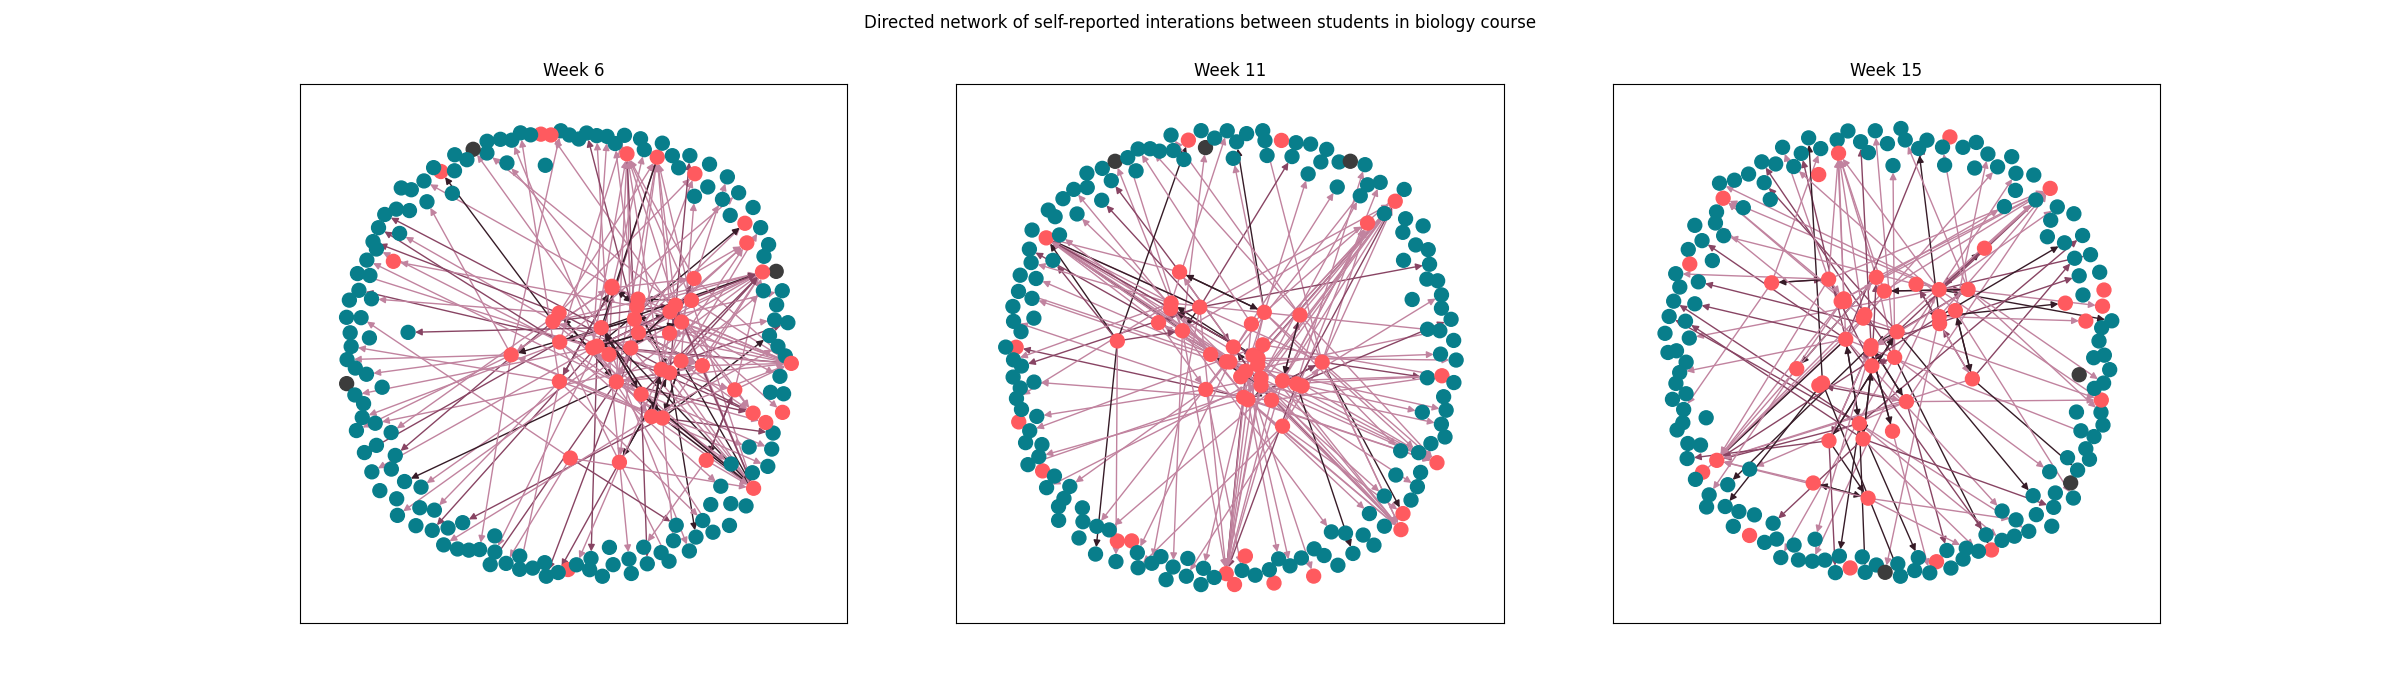
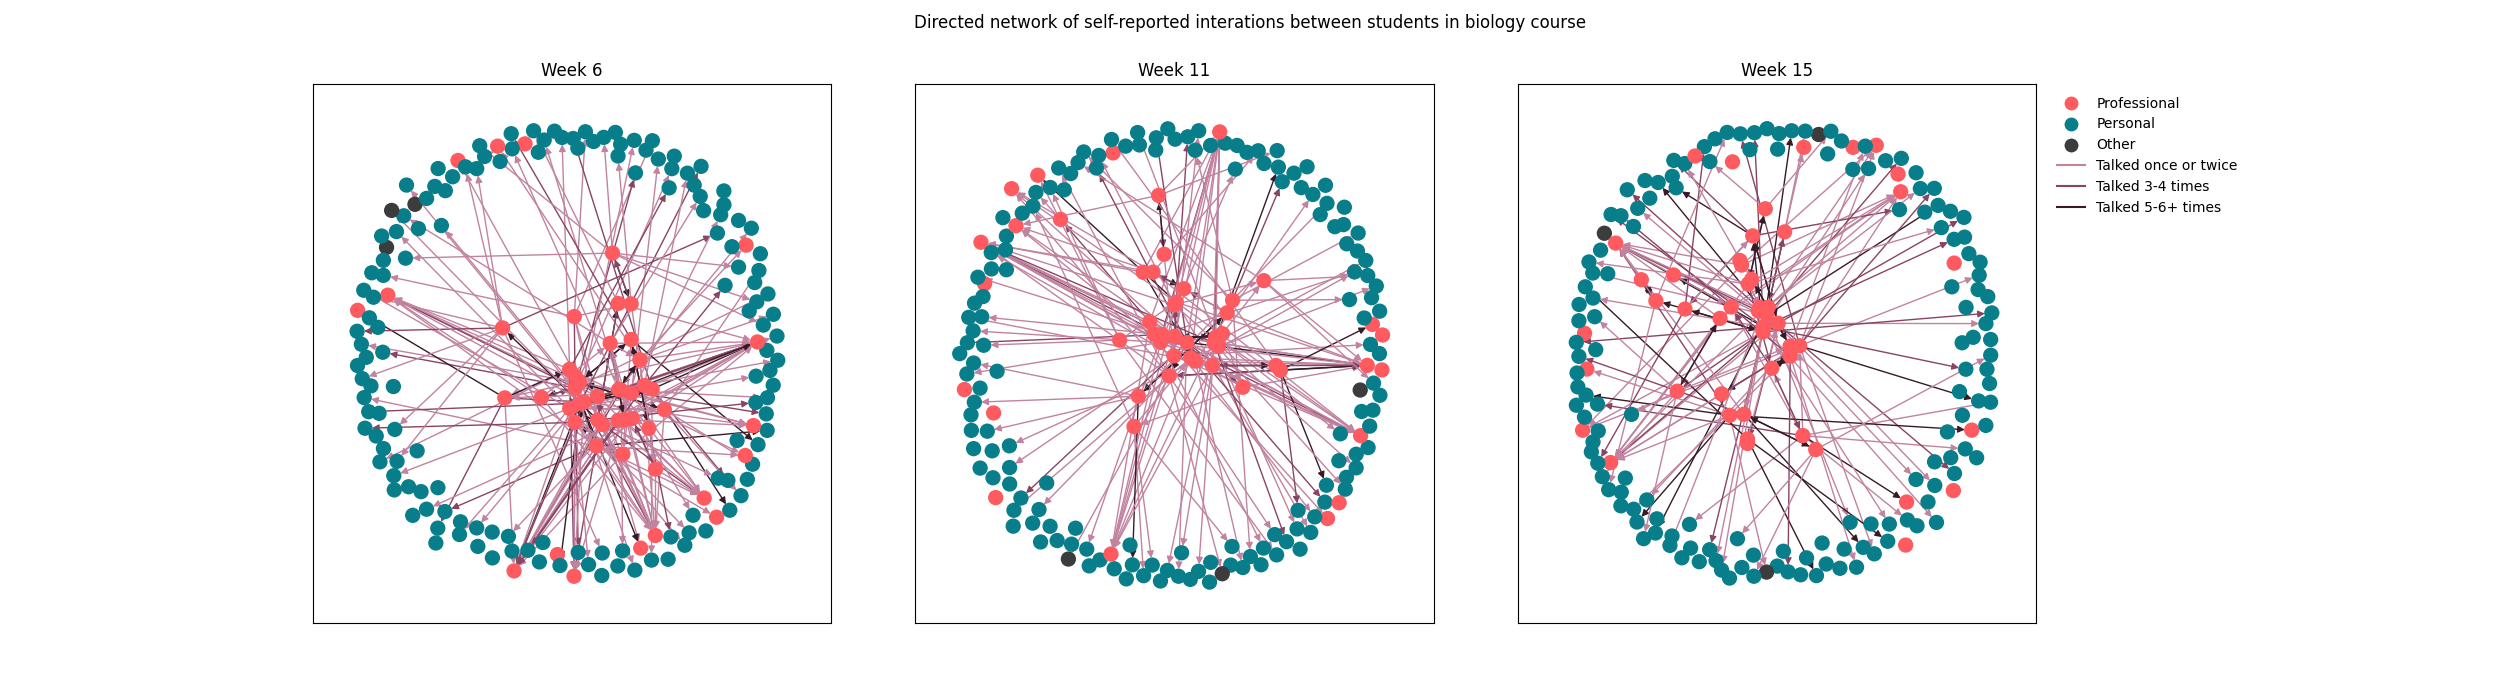
Community based graphs done

diff --git a/group_project.py b/group_project.py
@@ -48,17 +48,36 @@ for n, data in graph_early.nodes(data = True):
         node_colors.append("#3c3c3c")
 
 # define edge color based on weight
-subset_color = ["#ffffff", "#c1839f", "#884463", "#361b27"]
-edge_colors_early = [subset_color[data['weight']] for start, end, data in graph_early.edges(data = True)]
-edge_colors_middle = [subset_color[data['weight']] for start, end, data in graph_middle.edges(data = True)]
-edge_colors_late = [subset_color[data['weight']] for start, end, data in graph_late.edges(data = True)]
+subset_edge_color = ["#ffffff", "#c1839f", "#884463", "#361b27"]
+edge_colors_early = [subset_edge_color[data['weight']] for start, end, data in graph_early.edges(data = True)]
+edge_colors_middle = [subset_edge_color[data['weight']] for start, end, data in graph_middle.edges(data = True)]
+edge_colors_late = [subset_edge_color[data['weight']] for start, end, data in graph_late.edges(data = True)]
 
 # visualise graphs
-fig, (ax0, ax1, ax2) = plt.subplots(nrows = 1, ncols = 3, sharex = True, figsize = (24, 7))
+fig, (ax0, ax1, ax2, ax3) = plt.subplots(nrows = 1,
+                                    ncols = 4,
+                                    sharex = True,
+                                    figsize = (25, 7),
+                                    gridspec_kw = {'width_ratios' : [4, 4, 4, 1]})
 fig.suptitle("Directed network of self-reported interations between students in biology course")
 
+color_nodes_legend = {'Professional': "#ff5A5f",'Personal': "#087e8b",'Other': "#3c3c3c"}
+for label in color_nodes_legend:
+    ax3.plot([], [], 
+             color = 'white',
+             marker = 'o',
+             markersize = 11,
+             markerfacecolor = color_nodes_legend[label],
+             label = label)
+
+color_edges_legend = {'Talked once or twice': "#c1839f", 'Talked 3-4 times': "#884463", 'Talked 5-6+ times': "#361b27"}
+for label in color_edges_legend:
+    ax3.plot([], [],
+             color = color_edges_legend[label],
+             label = label)
+
 ax0.set_title('Week 6')
-nx.draw_networkx(graph_early, pos=nx.spring_layout(graph_early),
+nx.draw_networkx(graph_early, pos=nx.spring_layout(graph_early, seed = 57),
                  with_labels = False,
                  node_size = 100,
                  node_color = node_colors,
@@ -66,7 +85,7 @@ nx.draw_networkx(graph_early, pos=nx.spring_layout(graph_early),
                  ax = ax0)
 
 ax1.set_title('Week 11')
-nx.draw_networkx(graph_middle, pos=nx.spring_layout(graph_middle),
+nx.draw_networkx(graph_middle, pos=nx.spring_layout(graph_middle, seed = 57),
                  with_labels = False,
                  node_size = 100,
                  node_color = node_colors,
@@ -74,11 +93,14 @@ nx.draw_networkx(graph_middle, pos=nx.spring_layout(graph_middle),
                  ax = ax1)
 
 ax2.set_title('Week 15')
-nx.draw_networkx(graph_late, pos=nx.spring_layout(graph_late),
+nx.draw_networkx(graph_late, pos=nx.spring_layout(graph_late, seed = 57),
                  with_labels = False,
                  node_size = 100,
                  node_color = node_colors,
                  edge_color = edge_colors_late,
                  ax = ax2)
 
-plt.savefig('all_graps.png')
+ax3.axis('off')
+
+plt.legend(frameon = False)
+plt.savefig('all_graps_community.png')
